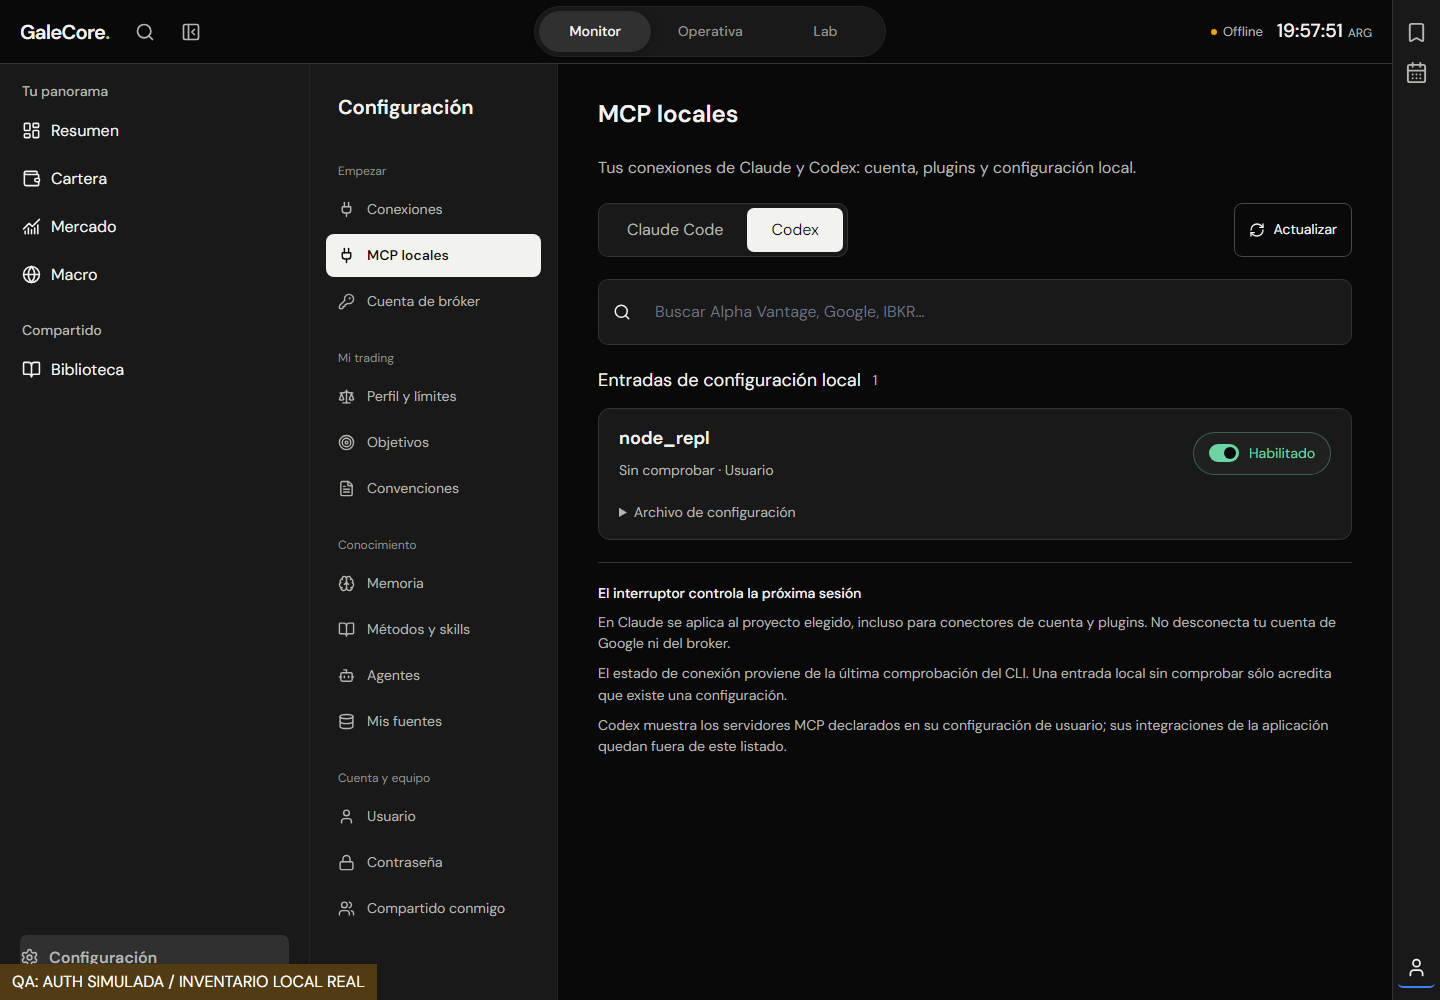
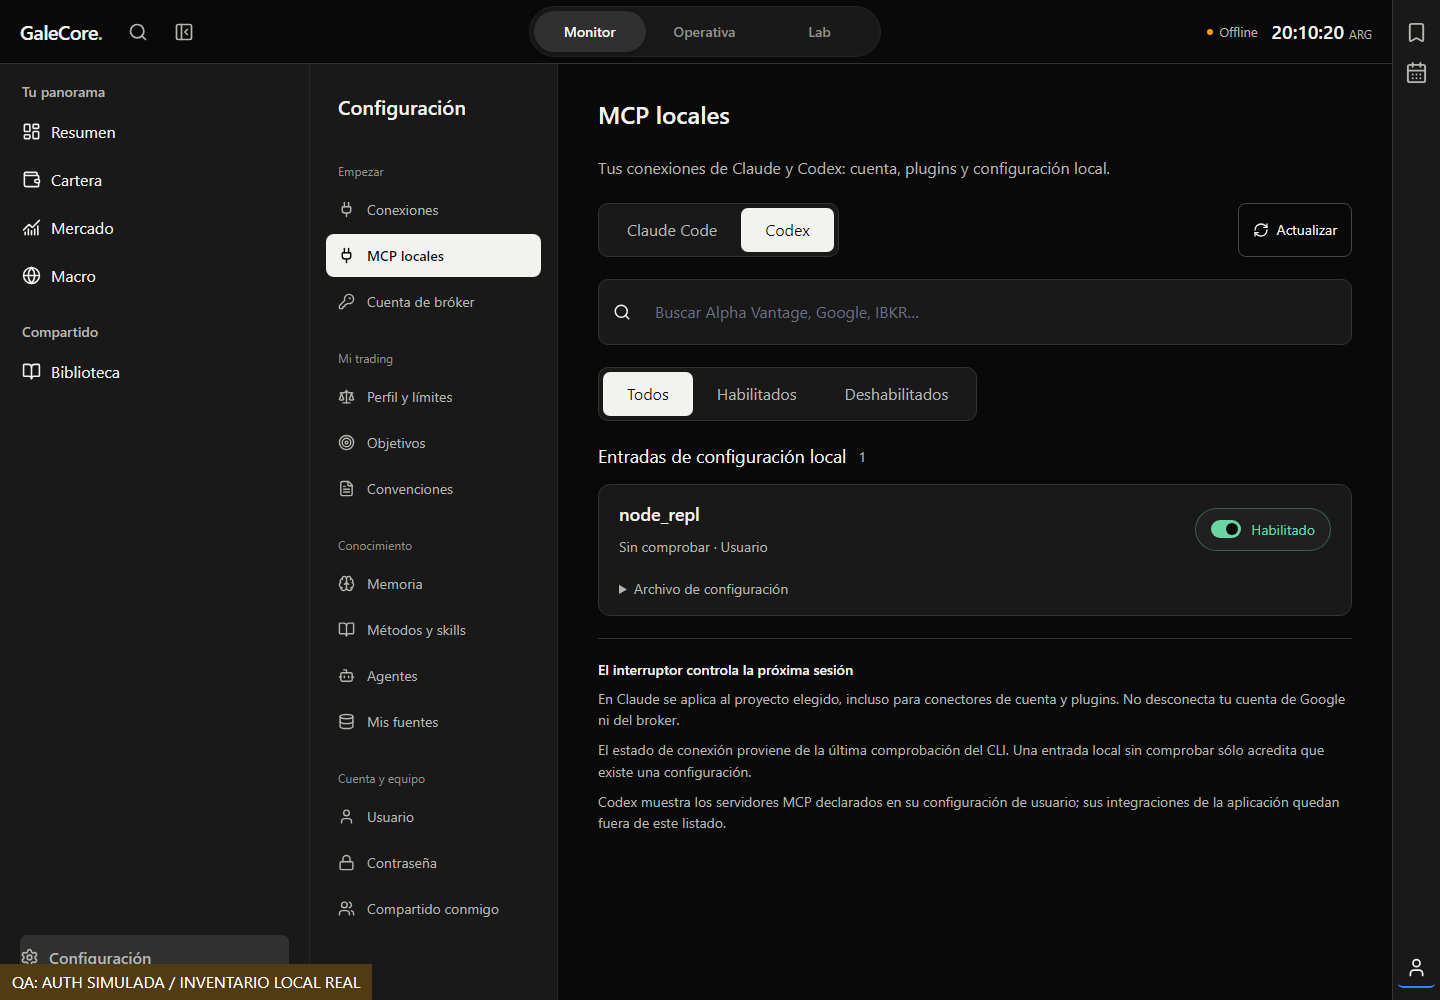
Filter local MCP connections by enabled state

diff --git a/source/galecore-monitor/src/components/settings/LocalMcp.tsx b/source/galecore-monitor/src/components/settings/LocalMcp.tsx
@@ -18,6 +18,7 @@ export function LocalMcp() {
   const [provider, setProvider] = useState<'claude' | 'codex'>('claude');
   const [context, setContext] = useState('');
   const [query, setQuery] = useState('');
+  const [enabledFilter, setEnabledFilter] = useState<'all' | 'enabled' | 'disabled'>('all');
   const [busy, setBusy] = useState(false);
   const [error, setError] = useState('');
   const [message, setMessage] = useState('');
@@ -41,7 +42,8 @@ export function LocalMcp() {
   const selectedContext = contexts.includes(context) ? context
     : contexts.includes(inventory?.workspace || '') ? inventory!.workspace : contexts[0] || '';
   const visible = rows.filter(s => s.context === selectedContext);
-  const matches = visible.filter(s => (s.displayName || s.name).toLowerCase().includes(query.trim().toLowerCase()));
+  const matches = visible.filter(s => (s.displayName || s.name).toLowerCase().includes(query.trim().toLowerCase())
+    && (enabledFilter === 'all' || s.enabled === (enabledFilter === 'enabled')));
   async function refresh() {
     setBusy(true); setError(''); setMessage('');
     try { setInventory(await (provider === 'claude' ? refreshLocalMcp() : fetchLocalMcp())); }
@@ -71,6 +73,10 @@ export function LocalMcp() {
       </select>
     </label>}
     <label className="local-mcp-search"><Search size={18}/><input aria-label="Buscar conexión" placeholder="Buscar Alpha Vantage, Google, IBKR…" value={query} onChange={e => setQuery(e.target.value)}/></label>
+    <div className="local-mcp-tabs local-mcp-filters" role="group" aria-label="Filtrar por habilitación">
+      {([{ id: 'all', label: 'Todos' }, { id: 'enabled', label: 'Habilitados' }, { id: 'disabled', label: 'Deshabilitados' }] as const).map(filter =>
+        <button key={filter.id} aria-pressed={enabledFilter === filter.id} onClick={() => setEnabledFilter(filter.id)}>{filter.label}</button>)}
+    </div>
     {busy && <p role="status">Leyendo o guardando configuración…</p>}
     {provider === 'claude' && inventory?.refreshing && <p role="status">Comprobando conexiones con Claude Code…</p>}
     {provider === 'claude' && inventory?.checkedAt && <p className="local-mcp-checked">Comprobado con Claude Code: {new Date(inventory.checkedAt).toLocaleTimeString('es-AR')}</p>}
@@ -78,7 +84,7 @@ export function LocalMcp() {
     {provider === 'claude' && inventory?.discoveryError && <div className="settings-error" role="alert">{inventory.discoveryError}</div>}
     {message && <p className="local-mcp-notice" role="status">{message}</p>}
     {inventory && !visible.length && <div className="local-mcp-empty"><Plug size={28}/><h2>Sin MCP configurados</h2><p>No hay conexiones detectadas para este CLI y proyecto.</p></div>}
-    {visible.length > 0 && !matches.length && <p>No hay conexiones que coincidan con la búsqueda.</p>}
+    {visible.length > 0 && !matches.length && <p>No hay conexiones que coincidan con los filtros.</p>}
     {groups.map(group => {
       const entries = matches.filter(s => (s.origin || 'local') === group.id);
       if (!entries.length) return null;

diff --git a/source/galecore-monitor/src/components/settings/LocalMcp.css b/source/galecore-monitor/src/components/settings/LocalMcp.css
@@ -43,3 +43,4 @@
 .local-mcp-runtime.is-failed { color: var(--red-gc); }
 .local-mcp-scope, .local-mcp-checked { font-size: 14px; color: var(--text-secondary); }
 .local-mcp-switch:disabled { cursor: not-allowed; }
+.local-mcp-filters { width: fit-content; max-width: 100%; flex-wrap: wrap; }

diff --git a/dev/local_mcp_smoke.py b/dev/local_mcp_smoke.py
@@ -79,7 +79,9 @@ def main():
             "Codex inventory: node_repl enabled, real configuration; no credential fields"
         )
         page.get_by_role("button", name="Claude Code", exact=True).click()
-        page.get_by_text("Comprobado con Claude Code:", exact=False).wait_for(timeout=70000)
+        page.get_by_text("Comprobado con Claude Code:", exact=False).wait_for(
+            timeout=70000
+        )
         page.get_by_role(
             "heading", name="Alpha Vantage MCP Server", exact=True
         ).wait_for(timeout=70000)
@@ -96,6 +98,9 @@ def main():
                 page.get_by_role("heading", name=name, exact=True).wait_for()
             page.screenshot(path=str(output / ("account-" + query.lower() + ".png")))
         search.fill("Google")
+        page.get_by_role("button", name="Habilitados", exact=True).click()
+        page.get_by_role("heading", name="Google Drive", exact=True).wait_for()
+        page.get_by_role("button", name="Todos", exact=True).click()
         page.screenshot(path=str(output / "claude-real.png"))
         report["checks"].append(
             "Claude native inventory: Alpha Vantage, Google, IBKR, IoL; correct workspace selected, legacy datafeed absent"
@@ -136,17 +141,25 @@ def main():
         page.get_by_role("button", name="Codex", exact=True).click()
         switch = page.get_by_role("switch", name="Habilitar browser_fixture")
         switch.wait_for()
+        page.get_by_role("button", name="Habilitados", exact=True).click()
         switch.click()
         page.get_by_text("browser_fixture: deshabilitado.", exact=False).wait_for()
+        assert switch.count() == 0
+        page.get_by_role("button", name="Deshabilitados", exact=True).click()
         assert switch.get_attribute("aria-checked") == "false"
         assert "enabled = false" in config.read_text()
         switch.click()
         page.get_by_text("browser_fixture: habilitado.", exact=False).wait_for()
+        assert switch.count() == 0
+        page.get_by_role("button", name="Todos", exact=True).click()
         assert switch.get_attribute("aria-checked") == "true"
         assert "enabled = true" in config.read_text()
         page.screenshot(path=str(output / "toggle-temporary.png"))
         report["checks"].append(
             "UI disable/enable invokes backend writer on temporary config, persists state, new-session notice"
+        )
+        report["checks"].append(
+            "Enabled filter combines with search; rows disappear from enabled/disabled filter after toggling"
         )
         report["browser"] = browser.version
         report["exit_code"] = 0

diff --git a/docs/engineering/evidence/GC-0031/README.md b/docs/engineering/evidence/GC-0031/README.md
@@ -76,3 +76,10 @@ Navegador actualizado: browser-run.json; auth sintetica aislada, inventario CLI 
 interruptores exclusivamente con archivos temporales. 15 backend / 5 frontend / build CI.
 Logs del build: build-account-discovery.txt. Review previo no cubre esta ampliacion,
 no se pidio recheck ni se cambia su resultado. F3 sigue documentado.
+
+## Filtro de habilitacion (13/10)
+Todos / Habilitados / Deshabilitados, combinado con el buscador y el proyecto/CLI.
+Usa el estado del interruptor, independientemente de conectado/requiere autenticacion.
+Recorrido Chromium agrega checks de filtro sobre inventario real y cambio de pertenencia
+al apagar/prender el fixture temporal. No cambia MCP reales ni el servicio local.
+Build de esta iteracion: build-enabled-filter.txt.

diff --git a/docs/engineering/work-items/GC-0031-conexiones-locales.md b/docs/engineering/work-items/GC-0031-conexiones-locales.md
@@ -36,3 +36,8 @@ Correccion owner 13/10: registro local datafeed no acreditaba MCP activo; faltab
 Proyecto del workspace seleccionado por defecto, buscador y estados de conexion reales.
 Actualizar solicita listado Claude en segundo plano (timeout 55s); no publica stdout/URLs/credenciales.
 ACTIVE_WORK_ITEM sigue WS-0031 de Claude; prioridad autorizada en roadmap §4.
+
+## Iteracion visual: filtro de habilitacion
+Owner 13/10: filtro Todos / Habilitados / Deshabilitados, combinado con busqueda.
+Navegador verifica que al apagar/prender una conexion la fila sale del filtro activo.
+Solo prueba temporal, sin modificar configuracion real; mismo 3039, sin cambios al harness.
